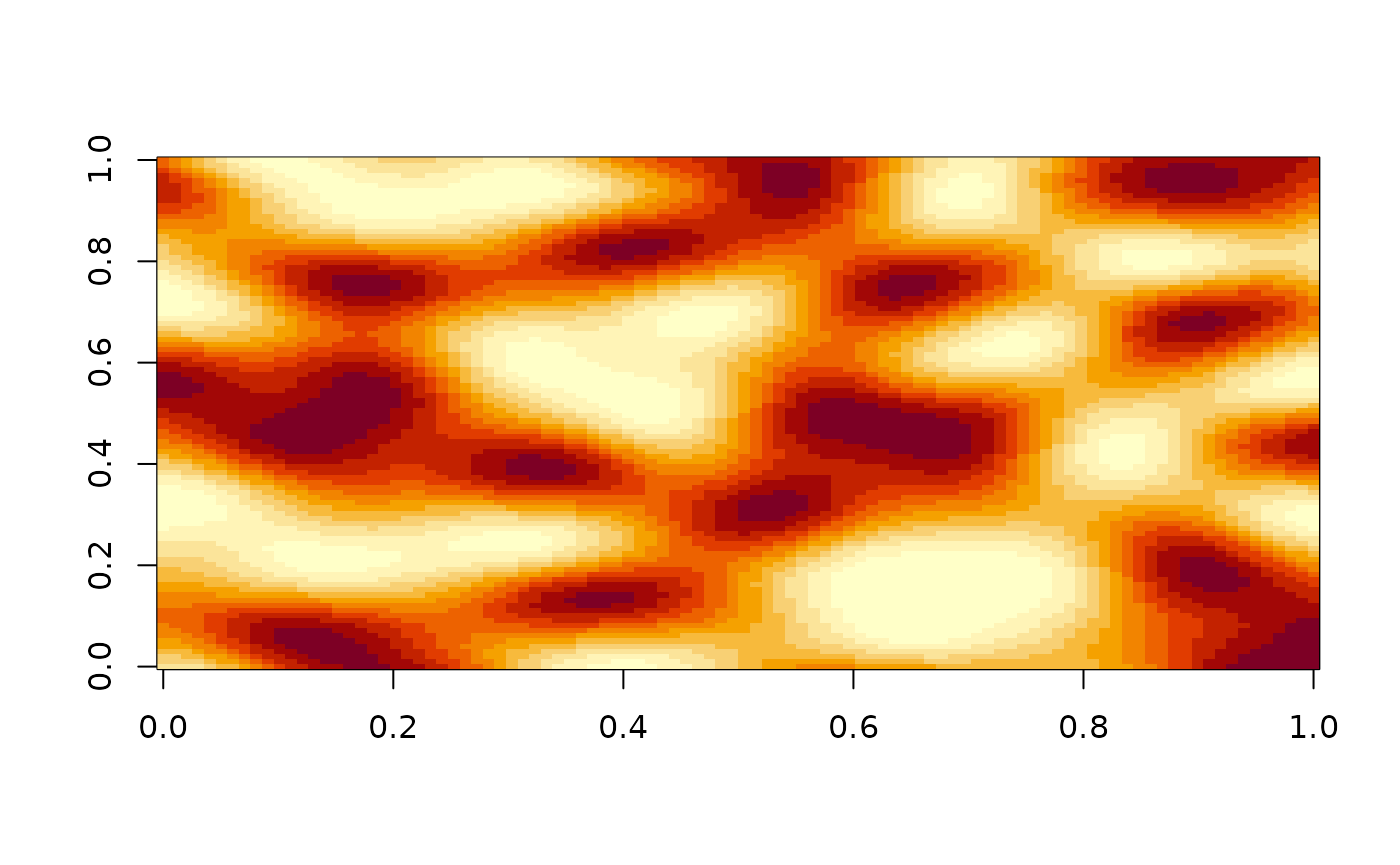
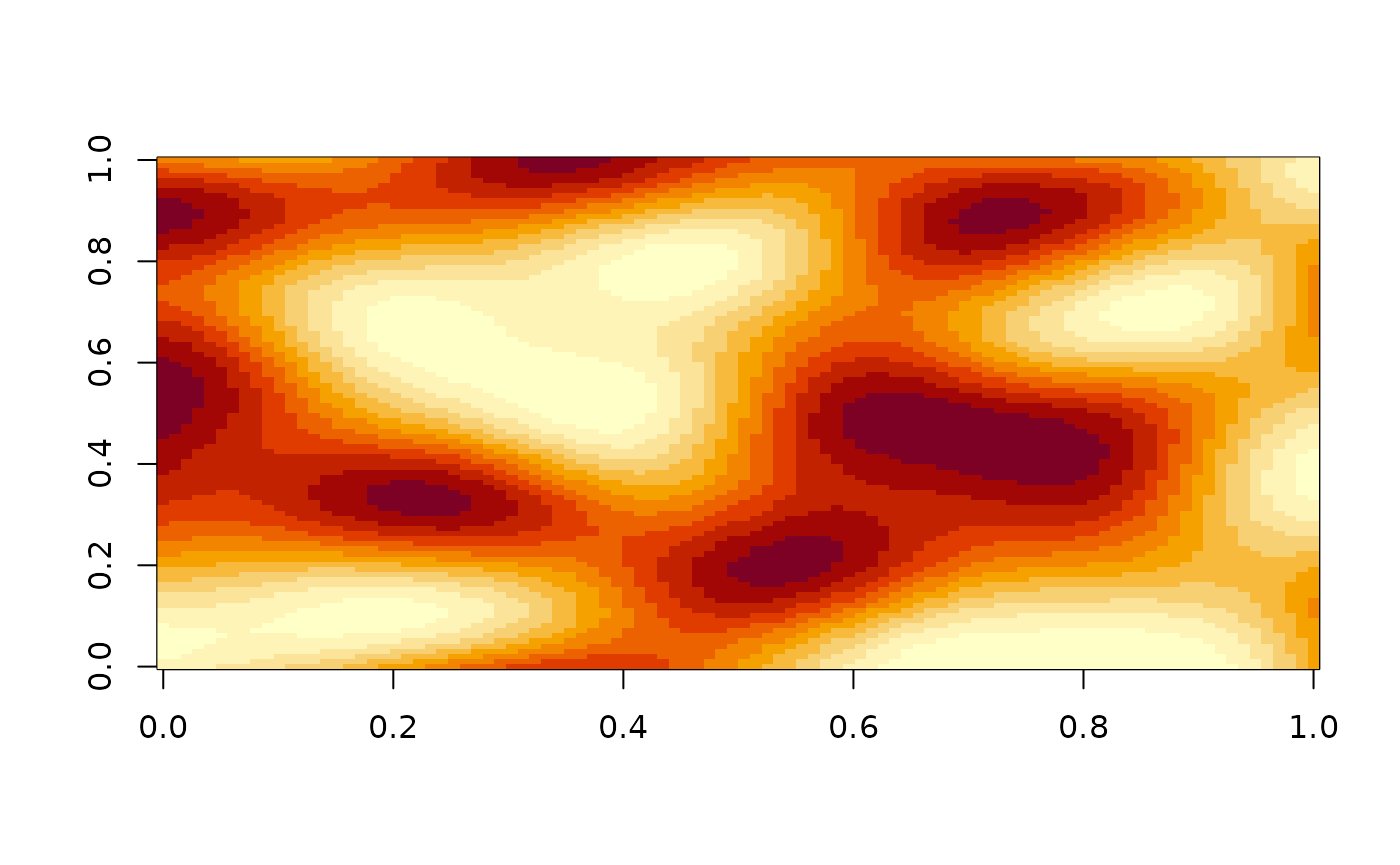
Deploying to gh-pages from @ pepijn-devries/opensimplex2@4f40c712119c0a8af7cd5231a8b49886c07fdf26 🚀

diff --git a/index.html b/index.html
@@ -70,34 +70,22 @@
 <p>TODO</p>
 <div class="sourceCode" id="cb2"><pre class="downlit sourceCode r">
 <code class="sourceCode R"><span><span class="kw"><a href="https://rdrr.io/r/base/library.html" class="external-link">library</a></span><span class="op">(</span><span class="va"><a href="https://pepijn-devries.github.io/opensimplex2/">opensimplex2</a></span><span class="op">)</span></span>
-<span><span class="kw"><a href="https://rdrr.io/r/base/library.html" class="external-link">library</a></span><span class="op">(</span><span class="va"><a href="https://ggplot2.tidyverse.org" class="external-link">ggplot2</a></span><span class="op">)</span></span>
-<span><span class="co">#&gt; Warning: package 'ggplot2' was built under R version 4.5.2</span></span>
-<span><span class="kw"><a href="https://rdrr.io/r/base/library.html" class="external-link">library</a></span><span class="op">(</span><span class="va"><a href="https://gganimate.com" class="external-link">gganimate</a></span><span class="op">)</span></span>
-<span><span class="co">#&gt; Warning: package 'gganimate' was built under R version 4.5.2</span></span>
+<span><span class="co">## Set seed to obtain reproducible data</span></span>
+<span><span class="fu"><a href="https://rdrr.io/r/base/Random.html" class="external-link">set.seed</a></span><span class="op">(</span><span class="fl">0</span><span class="op">)</span></span>
 <span><span class="co">## Create simplex noise in 3 dimensions:</span></span>
 <span><span class="va">arr</span> <span class="op">&lt;-</span> <span class="fu"><a href="reference/opensimplex_noise.html">opensimplex_noise</a></span><span class="op">(</span><span class="st">"S"</span>, <span class="fl">100</span>, <span class="fl">100</span>, <span class="fl">100</span>, frequency <span class="op">=</span> <span class="fl">1.5</span><span class="op">)</span></span>
-<span><span class="co">## Convert array to data.frame with dimensions as columns:</span></span>
-<span><span class="va">arr.df</span> <span class="op">&lt;-</span> <span class="fu"><a href="https://rdrr.io/r/base/as.data.frame.html" class="external-link">as.data.frame</a></span><span class="op">(</span><span class="fu"><a href="https://rdrr.io/r/base/which.html" class="external-link">which</a></span><span class="op">(</span><span class="va">arr</span> <span class="op">==</span> <span class="va">arr</span>, arr.ind <span class="op">=</span> <span class="cn">TRUE</span><span class="op">)</span><span class="op">)</span></span>
-<span><span class="va">arr.df</span><span class="op">$</span><span class="va">value</span> <span class="op">&lt;-</span> <span class="va">arr</span><span class="op">[</span><span class="fu"><a href="https://rdrr.io/r/base/matrix.html" class="external-link">as.matrix</a></span><span class="op">(</span><span class="va">arr.df</span><span class="op">)</span><span class="op">]</span></span>
 <span></span>
-<span><span class="co">## Plot the noise with first two dimensions on x- and y-axis.</span></span>
-<span><span class="co">## The third dimension is used as transition in an animation</span></span>
-<span><span class="fu"><a href="https://ggplot2.tidyverse.org/reference/ggplot.html" class="external-link">ggplot</a></span><span class="op">(</span><span class="va">arr.df</span>, <span class="fu"><a href="https://ggplot2.tidyverse.org/reference/aes.html" class="external-link">aes</a></span><span class="op">(</span>x <span class="op">=</span> <span class="va">dim1</span>, y <span class="op">=</span> <span class="va">dim2</span>, fill <span class="op">=</span> <span class="va">value</span><span class="op">)</span><span class="op">)</span> <span class="op">+</span></span>
-<span>  <span class="fu"><a href="https://ggplot2.tidyverse.org/reference/geom_tile.html" class="external-link">geom_tile</a></span><span class="op">(</span><span class="op">)</span> <span class="op">+</span></span>
-<span>  <span class="fu"><a href="https://ggplot2.tidyverse.org/reference/ggtheme.html" class="external-link">theme_void</a></span><span class="op">(</span><span class="op">)</span> <span class="op">+</span> </span>
-<span>  <span class="fu"><a href="https://ggplot2.tidyverse.org/reference/theme.html" class="external-link">theme</a></span><span class="op">(</span>plot.margin <span class="op">=</span> <span class="fu"><a href="https://ggplot2.tidyverse.org/reference/element.html" class="external-link">margin</a></span><span class="op">(</span><span class="fl">0</span>, <span class="fl">0</span>, <span class="fl">0</span>, <span class="fl">0</span>, <span class="st">"pt"</span><span class="op">)</span>,</span>
-<span>        legend.position <span class="op">=</span> <span class="st">"none"</span><span class="op">)</span> <span class="op">+</span></span>
-<span>  <span class="fu"><a href="https://ggplot2.tidyverse.org/reference/coord_fixed.html" class="external-link">coord_fixed</a></span><span class="op">(</span><span class="op">)</span> <span class="op">+</span></span>
-<span>  <span class="fu"><a href="https://ggplot2.tidyverse.org/reference/scale_continuous.html" class="external-link">scale_x_continuous</a></span><span class="op">(</span>expand <span class="op">=</span> <span class="fu"><a href="https://rdrr.io/r/base/c.html" class="external-link">c</a></span><span class="op">(</span><span class="fl">0</span>, <span class="fl">0</span><span class="op">)</span><span class="op">)</span> <span class="op">+</span></span>
-<span>  <span class="fu"><a href="https://ggplot2.tidyverse.org/reference/scale_continuous.html" class="external-link">scale_y_continuous</a></span><span class="op">(</span>expand <span class="op">=</span> <span class="fu"><a href="https://rdrr.io/r/base/c.html" class="external-link">c</a></span><span class="op">(</span><span class="fl">0</span>, <span class="fl">0</span><span class="op">)</span><span class="op">)</span> <span class="op">+</span></span>
-<span>  <span class="fu"><a href="https://ggplot2.tidyverse.org/reference/scale_colour_continuous.html" class="external-link">scale_fill_binned</a></span><span class="op">(</span>limit <span class="op">=</span> <span class="fu"><a href="https://rdrr.io/r/base/c.html" class="external-link">c</a></span><span class="op">(</span><span class="op">-</span><span class="fl">1</span>, <span class="fl">1</span><span class="op">)</span>, palette <span class="op">=</span> <span class="st">"viridis"</span>, n.breaks <span class="op">=</span> <span class="fl">10</span><span class="op">)</span> <span class="op">+</span></span>
-<span>  <span class="fu"><a href="https://gganimate.com/reference/transition_states.html" class="external-link">transition_states</a></span><span class="op">(</span><span class="va">dim3</span><span class="op">)</span></span></code></pre></div>
-<p><img src="reference/figures/README-example-1.gif" width="200px"></p>
+<span><span class="kw">for</span> <span class="op">(</span><span class="va">i</span> <span class="kw">in</span> <span class="fl">1</span><span class="op">:</span><span class="fl">100</span><span class="op">)</span> <span class="op">{</span></span>
+<span>  <span class="fu"><a href="https://rdrr.io/r/graphics/image.html" class="external-link">image</a></span><span class="op">(</span><span class="va">arr</span><span class="op">[</span>,,<span class="va">i</span><span class="op">]</span>,</span>
+<span>        axes <span class="op">=</span> <span class="cn">FALSE</span>, ann <span class="op">=</span> <span class="cn">FALSE</span>, xaxs <span class="op">=</span> <span class="st">"i"</span>, yaxs <span class="op">=</span> <span class="st">"i"</span>,</span>
+<span>        zlim <span class="op">=</span> <span class="fu"><a href="https://rdrr.io/r/base/c.html" class="external-link">c</a></span><span class="op">(</span><span class="op">-</span><span class="fl">1</span>, <span class="op">+</span><span class="fl">1</span><span class="op">)</span>, col <span class="op">=</span> <span class="fu"><a href="https://rdrr.io/r/grDevices/palettes.html" class="external-link">hcl.colors</a></span><span class="op">(</span>palette <span class="op">=</span> <span class="st">"Terrain"</span>, <span class="fl">10</span><span class="op">)</span><span class="op">)</span></span>
+<span><span class="op">}</span></span></code></pre></div>
+<p><img src="reference/figures/README-example-.gif" width="200px"></p>
 </div>
 <div class="section level2">
 <h2 id="acknowledgments">Acknowledgments<a class="anchor" aria-label="anchor" href="#acknowledgments"></a>
 </h2>
-<p>This package wraps the C-code by <a href="Marco%20Ciaramella">https://github.com/MarcoCiaramella/opensimplex2</a>, which in turn is a translation of the original Java code by <a href="KdotJPG">https://github.com/KdotJPG/OpenSimplex2</a>.</p>
+<p>This package wraps the C-code by <a href="https://github.com/MarcoCiaramella/opensimplex2" class="external-link">Marco Ciaramella</a>, which in turn is a translation of the original Java code by <a href="https://github.com/KdotJPG/OpenSimplex2" class="external-link">KdotJPG</a>.</p>
 </div>
 <div class="section level2">
 <h2 id="code-of-conduct">Code of Conduct<a class="anchor" aria-label="anchor" href="#code-of-conduct"></a>

diff --git a/reference/opensimplex_space.html b/reference/opensimplex_space.html
@@ -1,0 +1,67 @@
+<!DOCTYPE html>
+<!-- Generated by pkgdown: do not edit by hand --><html lang="en-GB"><head><meta http-equiv="Content-Type" content="text/html; charset=UTF-8"><meta charset="utf-8"><meta http-equiv="X-UA-Compatible" content="IE=edge"><meta name="viewport" content="width=device-width, initial-scale=1, shrink-to-fit=no"><title>TODO — opensimplex_space • opensimplex2</title><script src="../deps/jquery-3.6.0/jquery-3.6.0.min.js"></script><meta name="viewport" content="width=device-width, initial-scale=1, shrink-to-fit=no"><link href="../deps/bootstrap-5.3.1/bootstrap.min.css" rel="stylesheet"><script src="../deps/bootstrap-5.3.1/bootstrap.bundle.min.js"></script><link href="../deps/font-awesome-6.5.2/css/all.min.css" rel="stylesheet"><link href="../deps/font-awesome-6.5.2/css/v4-shims.min.css" rel="stylesheet"><script src="../deps/headroom-0.11.0/headroom.min.js"></script><script src="../deps/headroom-0.11.0/jQuery.headroom.min.js"></script><script src="../deps/bootstrap-toc-1.0.1/bootstrap-toc.min.js"></script><script src="../deps/clipboard.js-2.0.11/clipboard.min.js"></script><script src="../deps/search-1.0.0/autocomplete.jquery.min.js"></script><script src="../deps/search-1.0.0/fuse.min.js"></script><script src="../deps/search-1.0.0/mark.min.js"></script><!-- pkgdown --><script src="../pkgdown.js"></script><meta property="og:title" content="TODO — opensimplex_space"><meta name="description" content="TODO"><meta property="og:description" content="TODO"></head><body>
+    <a href="#main" class="visually-hidden-focusable">Skip to contents</a>
+
+
+    <nav class="navbar navbar-expand-lg fixed-top bg-light" data-bs-theme="light" aria-label="Site navigation"><div class="container">
+
+    <a class="navbar-brand me-2" href="../index.html">opensimplex2</a>
+
+    <small class="nav-text text-muted me-auto" data-bs-toggle="tooltip" data-bs-placement="bottom" title="">0.0.0.9000</small>
+
+
+    <button class="navbar-toggler" type="button" data-bs-toggle="collapse" data-bs-target="#navbar" aria-controls="navbar" aria-expanded="false" aria-label="Toggle navigation">
+      <span class="navbar-toggler-icon"></span>
+    </button>
+
+    <div id="navbar" class="collapse navbar-collapse ms-3">
+      <ul class="navbar-nav me-auto"><li class="active nav-item"><a class="nav-link" href="../reference/index.html">Reference</a></li>
+<li class="nav-item dropdown">
+  <button class="nav-link dropdown-toggle" type="button" id="dropdown-articles" data-bs-toggle="dropdown" aria-expanded="false" aria-haspopup="true">Articles</button>
+  <ul class="dropdown-menu" aria-labelledby="dropdown-articles"><li><a class="dropdown-item" href="../articles/n-dimensional-noise.html">N-Dimensional Noise</a></li>
+  </ul></li>
+      </ul><ul class="navbar-nav"><li class="nav-item"><form class="form-inline" role="search">
+ <input class="form-control" type="search" name="search-input" id="search-input" autocomplete="off" aria-label="Search site" placeholder="Search for" data-search-index="../search.json"></form></li>
+<li class="nav-item"><a class="external-link nav-link" href="https://github.com/pepijn-devries/opensimplex2/" aria-label="GitHub"><span class="fa fab fa-github fa-lg"></span></a></li>
+      </ul></div>
+
+
+  </div>
+</nav><div class="container template-reference-topic">
+<div class="row">
+  <main id="main" class="col-md-9"><div class="page-header">
+
+      <h1>TODO</h1>
+      <small class="dont-index">Source: <a href="https://github.com/pepijn-devries/opensimplex2/blob/main/R/simplex.R" class="external-link"><code>R/simplex.R</code></a></small>
+      <div class="d-none name"><code>opensimplex_space.Rd</code></div>
+    </div>
+
+    <div class="ref-description section level2">
+    <p>TODO</p>
+    </div>
+
+    <div class="section level2">
+    <h2 id="ref-usage">Usage<a class="anchor" aria-label="anchor" href="#ref-usage"></a></h2>
+    <div class="sourceCode"><pre class="sourceCode r"><code><span><span class="fu">opensimplex_space</span><span class="op">(</span>type <span class="op">=</span> <span class="st">"S"</span>, dimensions <span class="op">=</span> <span class="fl">2L</span><span class="op">)</span></span></code></pre></div>
+    </div>
+
+
+  </main></div>
+
+
+    <footer><div class="pkgdown-footer-left">
+  <p>Developed by Pepijn de Vries, Marco Ciaramella, KdotJPG.</p>
+</div>
+
+<div class="pkgdown-footer-right">
+  <p>Site built with <a href="https://pkgdown.r-lib.org/" class="external-link">pkgdown</a> 2.2.0.</p>
+</div>
+
+    </footer></div>
+
+
+
+
+
+  </body></html>
+

diff --git a/reference/opensimplex_noise.html b/reference/opensimplex_noise.html
@@ -42,7 +42,7 @@
 
     <div class="section level2">
     <h2 id="ref-usage">Usage<a class="anchor" aria-label="anchor" href="#ref-usage"></a></h2>
-    <div class="sourceCode"><pre class="sourceCode r"><code><span><span class="fu">opensimplex_noise</span><span class="op">(</span>type <span class="op">=</span> <span class="st">"F"</span>, <span class="va">width</span>, <span class="va">height</span>, <span class="va">depth</span>, <span class="va">slice</span>, frequency <span class="op">=</span> <span class="fl">1</span><span class="op">)</span></span></code></pre></div>
+    <div class="sourceCode"><pre class="sourceCode r"><code><span><span class="fu">opensimplex_noise</span><span class="op">(</span>type <span class="op">=</span> <span class="st">"S"</span>, <span class="va">width</span>, <span class="va">height</span>, <span class="va">depth</span>, <span class="va">slice</span>, frequency <span class="op">=</span> <span class="fl">1</span><span class="op">)</span></span></code></pre></div>
     </div>
 
     <div class="section level2">

diff --git a/reference/index.html b/reference/index.html
@@ -50,6 +50,13 @@
 
         </dt>
         <dd>TODO</dd>
+
+        <dt>
+
+          <code><a href="opensimplex_space.html">opensimplex_space()</a></code>
+
+        </dt>
+        <dd>TODO</dd>
       </dl></div>
   </main></div>
 

diff --git a/index.md b/index.md
@@ -16,38 +16,26 @@ TODO
 
 ``` r
 library(opensimplex2)
-library(ggplot2)
-#> Warning: package 'ggplot2' was built under R version 4.5.2
-library(gganimate)
-#> Warning: package 'gganimate' was built under R version 4.5.2
+## Set seed to obtain reproducible data
+set.seed(0)
 ## Create simplex noise in 3 dimensions:
 arr <- opensimplex_noise("S", 100, 100, 100, frequency = 1.5)
-## Convert array to data.frame with dimensions as columns:
-arr.df <- as.data.frame(which(arr == arr, arr.ind = TRUE))
-arr.df$value <- arr[as.matrix(arr.df)]
 
-## Plot the noise with first two dimensions on x- and y-axis.
-## The third dimension is used as transition in an animation
-ggplot(arr.df, aes(x = dim1, y = dim2, fill = value)) +
-  geom_tile() +
-  theme_void() + 
-  theme(plot.margin = margin(0, 0, 0, 0, "pt"),
-        legend.position = "none") +
-  coord_fixed() +
-  scale_x_continuous(expand = c(0, 0)) +
-  scale_y_continuous(expand = c(0, 0)) +
-  scale_fill_binned(limit = c(-1, 1), palette = "viridis", n.breaks = 10) +
-  transition_states(dim3)
+for (i in 1:100) {
+  image(arr[,,i],
+        axes = FALSE, ann = FALSE, xaxs = "i", yaxs = "i",
+        zlim = c(-1, +1), col = hcl.colors(palette = "Terrain", 10))
+}
 ```
 
-![](reference/figures/README-example-1.gif)
+![](reference/figures/README-example-.gif)
 
 ## Acknowledgments
 
-This package wraps the C-code by
-[https://github.com/MarcoCiaramella/opensimplex2](https://pepijn-devries.github.io/opensimplex2/Marco%20Ciaramella),
-which in turn is a translation of the original Java code by
-[https://github.com/KdotJPG/OpenSimplex2](https://pepijn-devries.github.io/opensimplex2/KdotJPG).
+This package wraps the C-code by [Marco
+Ciaramella](https://github.com/MarcoCiaramella/opensimplex2), which in
+turn is a translation of the original Java code by
+[KdotJPG](https://github.com/KdotJPG/OpenSimplex2).
 
 ## Code of Conduct
 

diff --git a/reference/index.md b/reference/index.md
@@ -4,3 +4,5 @@
 
 - [`opensimplex_noise()`](https://pepijn-devries.github.io/opensimplex2/reference/opensimplex_noise.md)
   : TODO
+- [`opensimplex_space()`](https://pepijn-devries.github.io/opensimplex2/reference/opensimplex_space.md)
+  : TODO

diff --git a/reference/opensimplex_noise.md b/reference/opensimplex_noise.md
@@ -5,7 +5,7 @@ TODO
 ## Usage
 
 ``` r
-opensimplex_noise(type = "F", width, height, depth, slice, frequency = 1)
+opensimplex_noise(type = "S", width, height, depth, slice, frequency = 1)
 ```
 
 ## Arguments

diff --git a/reference/opensimplex_space.md b/reference/opensimplex_space.md
@@ -1,0 +1,9 @@
+# TODO
+
+TODO
+
+## Usage
+
+``` r
+opensimplex_space(type = "S", dimensions = 2L)
+```
